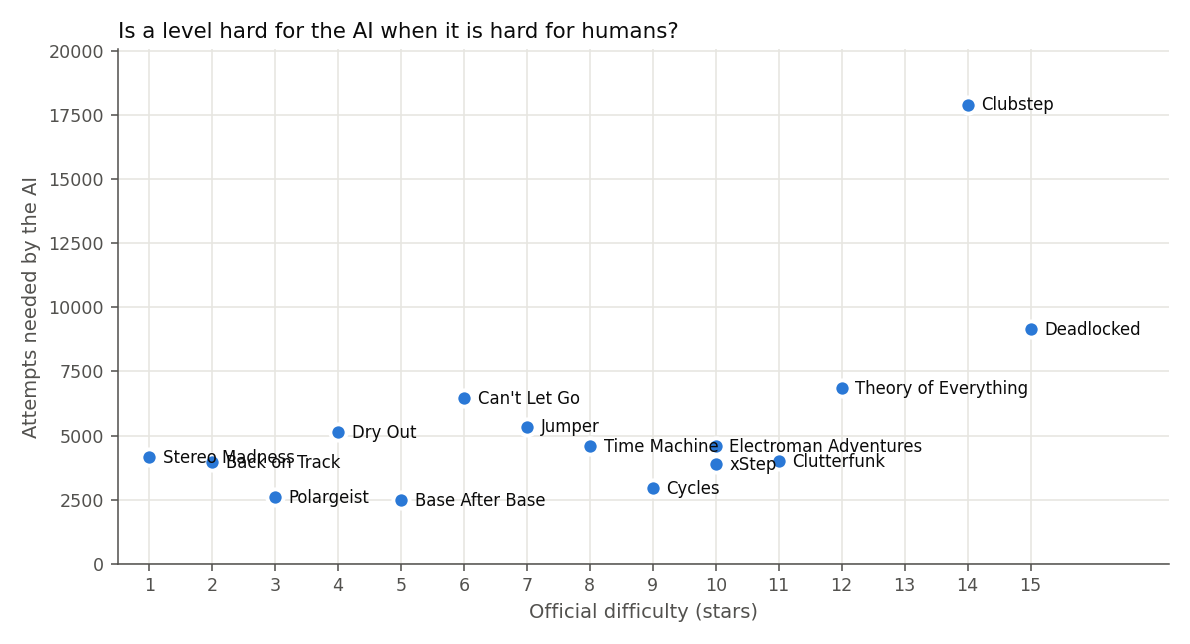
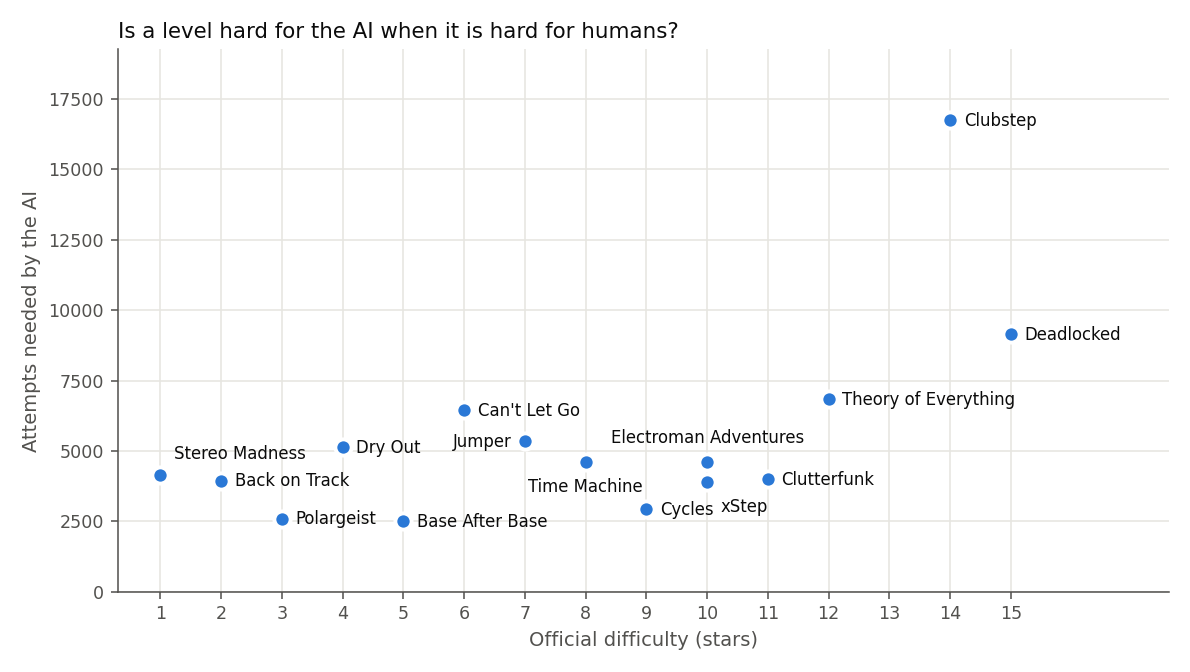
Clean Clubstep run (16,750 attempts, 23 min), report labels without overlaps

Changed region(s): [[0.0, 0.0311, 0.995, 0.9627], [0.0, 0.2795, 0.0933, 0.4969], [0.0311, 0.1242, 0.0933, 0.1863]]

diff --git a/make_report.py b/make_report.py
@@ -282,26 +282,65 @@ def ranking(runs):
     return "\n".join(lines)
 
 
+def place_labels(fig, ax, points, labels, fontsize=8.5):
+    """Put each label next to its point without overlapping other labels or points: try a few
+    positions around the point (right first) and keep the first free one."""
+    candidates = [(7, -3, "left", "baseline"), (-7, -3, "right", "baseline"), (0, 8, "center", "bottom"),
+                  (0, -8, "center", "top"), (7, 6, "left", "bottom"), (7, -8, "left", "top"),
+                  (-7, 6, "right", "bottom"), (-7, -8, "right", "top")]
+    fig.canvas.draw()
+    renderer = fig.canvas.get_renderer()
+    taken = []
+    for x, y in points:                                     # the markers themselves (about 6 px wide)
+        px, py = ax.transData.transform((x, y))
+        taken.append((px - 6, py - 6, px + 6, py + 6))
+    axes_box = ax.get_window_extent(renderer)
+    for (x, y), label in zip(points, labels):
+        best = None
+        for dx, dy, ha, va in candidates:
+            t = ax.annotate(label, (x, y), xytext=(dx, dy), textcoords="offset points",
+                            fontsize=fontsize, color=INK, ha=ha, va=va)
+            b = t.get_window_extent(renderer).padded(2)
+            box = (b.x0, b.y0, b.x1, b.y1)
+            free = all(box[2] < o[0] or box[0] > o[2] or box[3] < o[1] or box[1] > o[3] for o in taken)
+            inside = b.x0 >= axes_box.x0 and b.x1 <= axes_box.x1 and b.y0 >= axes_box.y0 and b.y1 <= axes_box.y1
+            if free and inside:
+                best = (t, box)
+                break
+            t.remove()
+        if best is None:                                    # no free spot: keep the default position
+            t = ax.annotate(label, (x, y), xytext=(7, -3), textcoords="offset points",
+                            fontsize=fontsize, color=INK)
+            b = t.get_window_extent(renderer)
+            best = (t, (b.x0, b.y0, b.x1, b.y1))
+        taken.append(best[1])
+
+
 def fig_ranking(runs, path):
     rs = beaten_practice(runs)
     if len(rs) < 2:
         return False
-    fig, ax = plt.subplots(figsize=(8.5, 4.6))
+    fig, ax = plt.subplots(figsize=(8.5, 4.8))
     xs = [STARS[r["level"]] for r in rs]
     ys = [r["episodes_adj"] for r in rs]
-    ax.scatter(xs, ys, s=70, color=BLUE, edgecolor="white", linewidth=2, zorder=3)
-    for x, y, r in zip(xs, ys, rs):
-        ax.annotate(NAMES[r["level"]], (x, y), xytext=(7, -3), textcoords="offset points",
-                    fontsize=8.5, color=INK)
+    exact = [r["episodes_adj"] == r["episodes"] for r in rs]
+    ax.scatter([x for x, e in zip(xs, exact) if e], [y for y, e in zip(ys, exact) if e],
+               s=70, color=BLUE, edgecolor="white", linewidth=2, zorder=3, label="one clean run")
+    if not all(exact):
+        ax.scatter([x for x, e in zip(xs, exact) if not e], [y for y, e in zip(ys, exact) if not e],
+                   s=60, facecolor="white", edgecolor=BLUE, linewidth=2, zorder=3,
+                   label="trained in two parts (estimate)")
+        ax.legend(frameon=False, loc="upper left", fontsize=8.5)
     ax.set_xlabel("Official difficulty (stars)", color=INK2)
     ax.set_ylabel("Attempts needed by the AI", color=INK2)
     ax.set_xticks(range(1, max(xs) + 1))
-    ax.set_xlim(0.5, max(xs) + 2.2)
-    ax.set_ylim(0, max(ys) * 1.12)
+    ax.set_xlim(0.3, max(xs) + 2.6)
+    ax.set_ylim(0, max(ys) * 1.15)
     style(ax)
     ax.grid(axis="y", color=GRID, linewidth=0.8)
     ax.set_title("Is a level hard for the AI when it is hard for humans?", fontsize=11, color=INK, loc="left")
     fig.tight_layout()
+    place_labels(fig, ax, list(zip(xs, ys)), [NAMES[r["level"]] for r in rs])
     fig.savefig(path, dpi=140)
     plt.close(fig)
     return True

diff --git a/docs/RESULTS.md b/docs/RESULTS.md
@@ -56,7 +56,7 @@ Généré par `python make_report.py` à partir des logs de `results/` (données
 | Clutterfunk | practice | default | beaten | 4,000 | 800,529 | 5.0 min |  |
 | Theory of Everything | practice | default | beaten | 6,850 | 1,112,616 | 7.5 min | 2 checkpoint(s) set aside |
 | Electroman Adventures | practice | default | beaten | 4,600 | 1,150,451 | 6.5 min |  |
-| Clubstep | practice | default | beaten | 20,100 | — | — | stuck at 70.6% in a tight UFO corridor: the state was too coarse to tell close positions apart; resumed from the best run with a finer state (--obs fine); total time unknown |
+| Clubstep | practice | default | beaten | 16,750 | 2,830,820 | 22.7 min | finer state (--obs fine) |
 | Deadlocked | practice | default | beaten | 9,150 | 2,065,893 | 13.5 min | finer state (--obs fine) |
 
 ![minutes_per_level.png](figures/minutes_per_level.png)
@@ -68,7 +68,7 @@ Levels ranked by the number of attempts (practice mode) the agent needed to beat
 
 | Rank | Level | Official stars | Attempts to beat it | Hardest passage |
 |---|---|---|---|---|
-| 1 | Clubstep | 14 | 17,900* | stuck 4,050 attempts at 71% |
+| 1 | Clubstep | 14 | 16,750 | stuck 1,300 attempts at 83% |
 | 2 | Deadlocked | 15 | 9,150 | stuck 1,500 attempts at 52% |
 | 3 | Theory of Everything | 12 | 6,850 | stuck 1,150 attempts at 81% |
 | 4 | Can't Let Go | 6 | 6,450 | stuck 1,850 attempts at 62% |
@@ -85,8 +85,6 @@ Levels ranked by the number of attempts (practice mode) the agent needed to beat
 | 15 | Base After Base | 5 | 2,500 | stuck 200 attempts at 40% |
 
 Agreement with the official difficulty (Spearman rank correlation, 1 = same order, 0 = unrelated): **0.52** over 15 levels.
-
-\* without the attempts lost to a bug of the training code (see the notes of the results table).
 
 ![ai_vs_official_difficulty.png](figures/ai_vs_official_difficulty.png)
 

diff --git a/README.fr.md b/README.fr.md
@@ -9,7 +9,7 @@ tout le reste, elle l'apprend en mourant.
 ## Résultats
 
 **15 des 22 niveaux officiels finis**, dont les deux démons tentés pour l'instant, **Clubstep** et **Deadlocked**.
-La plupart des niveaux demandent 3 à 7 minutes d'entraînement ; Deadlocked en a demandé 13,5.
+La plupart des niveaux demandent 3 à 7 minutes d'entraînement ; les deux démons en ont demandé 13,5 (Deadlocked) et 23 (Clubstep).
 
 ![Un niveau difficile pour les humains l'est-il aussi pour l'IA ?](docs/figures/ai_vs_official_difficulty.png)
 

diff --git a/README.md b/README.md
@@ -9,7 +9,7 @@ everything else, it learns by dying.
 ## Results
 
 **15 of the 22 official levels beaten**, including the two demons tried so far, **Clubstep** and **Deadlocked**.
-Most levels take 3 to 7 minutes of training; Deadlocked took 13.5 minutes.
+Most levels take 3 to 7 minutes of training; the two demons took 13.5 (Deadlocked) and 23 minutes (Clubstep).
 
 ![Is a level hard for the AI when it is hard for humans?](docs/figures/ai_vs_official_difficulty.png)
 
